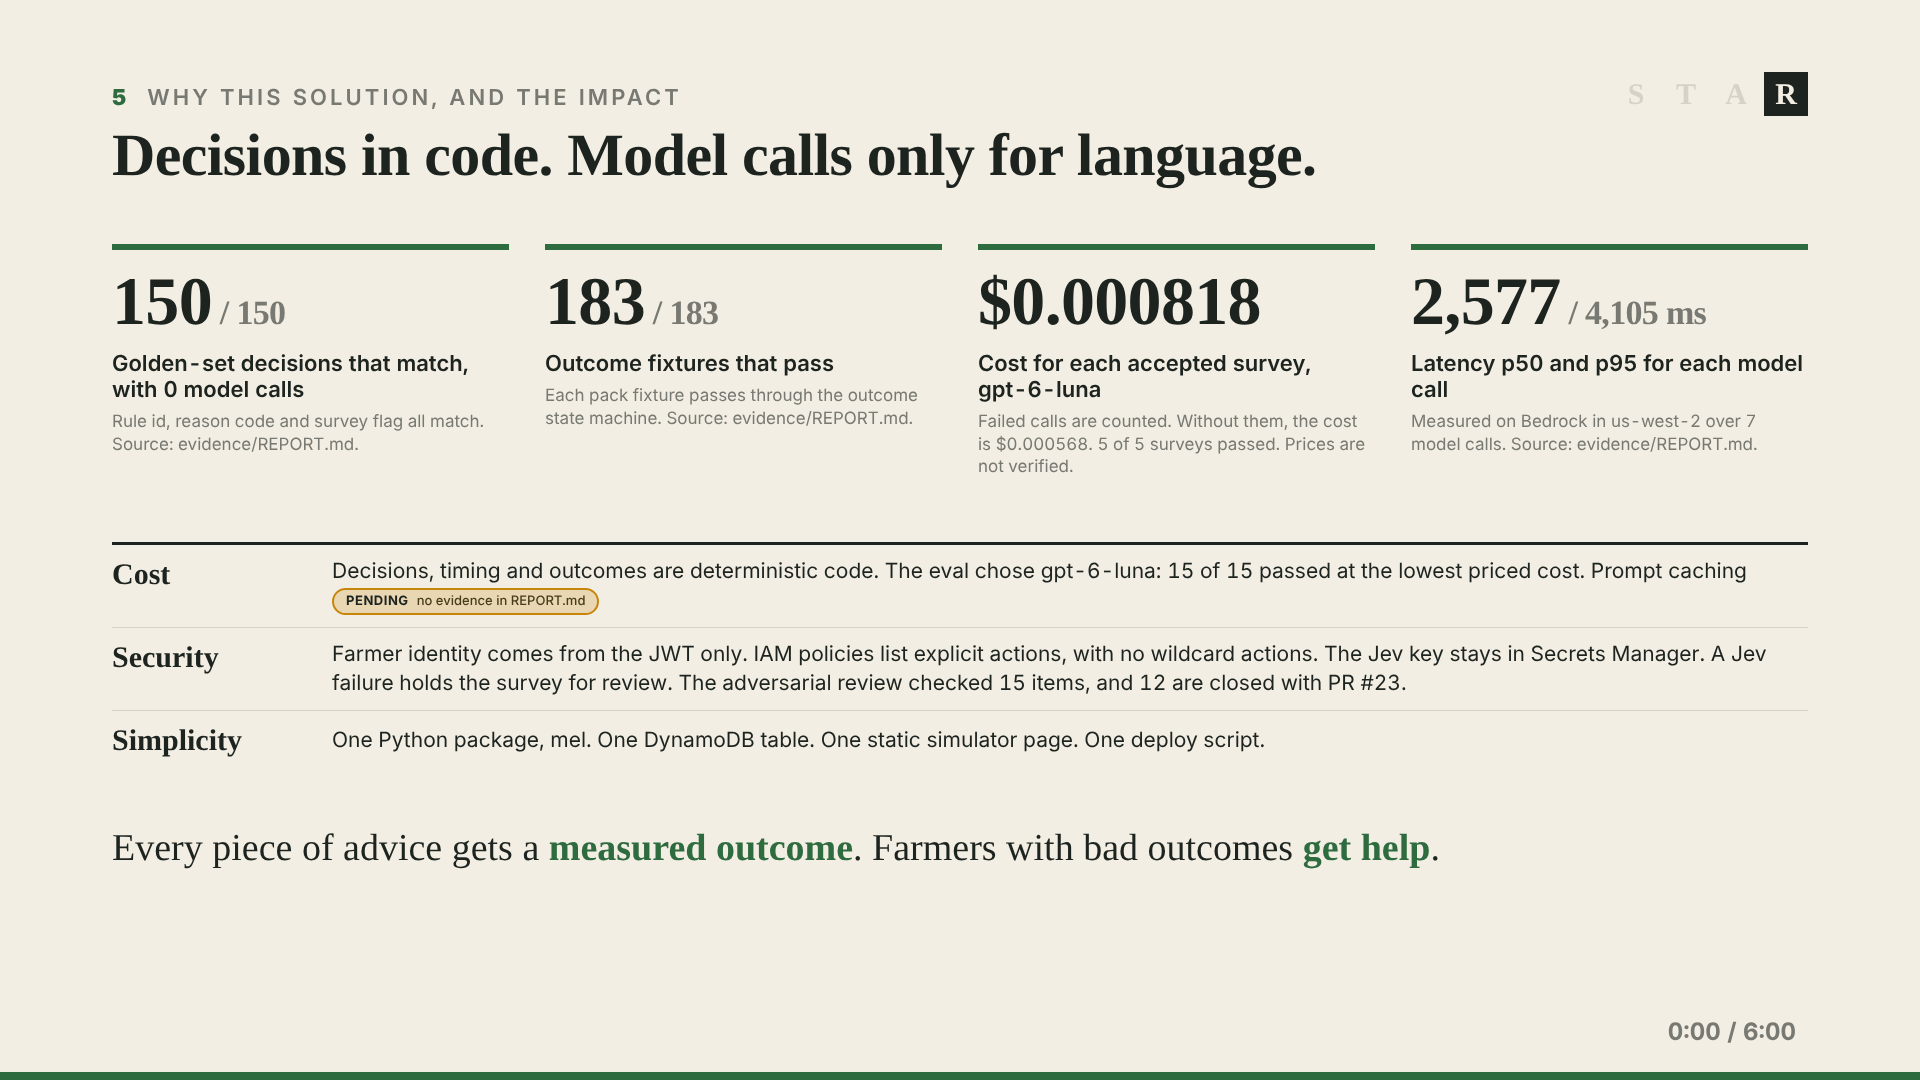
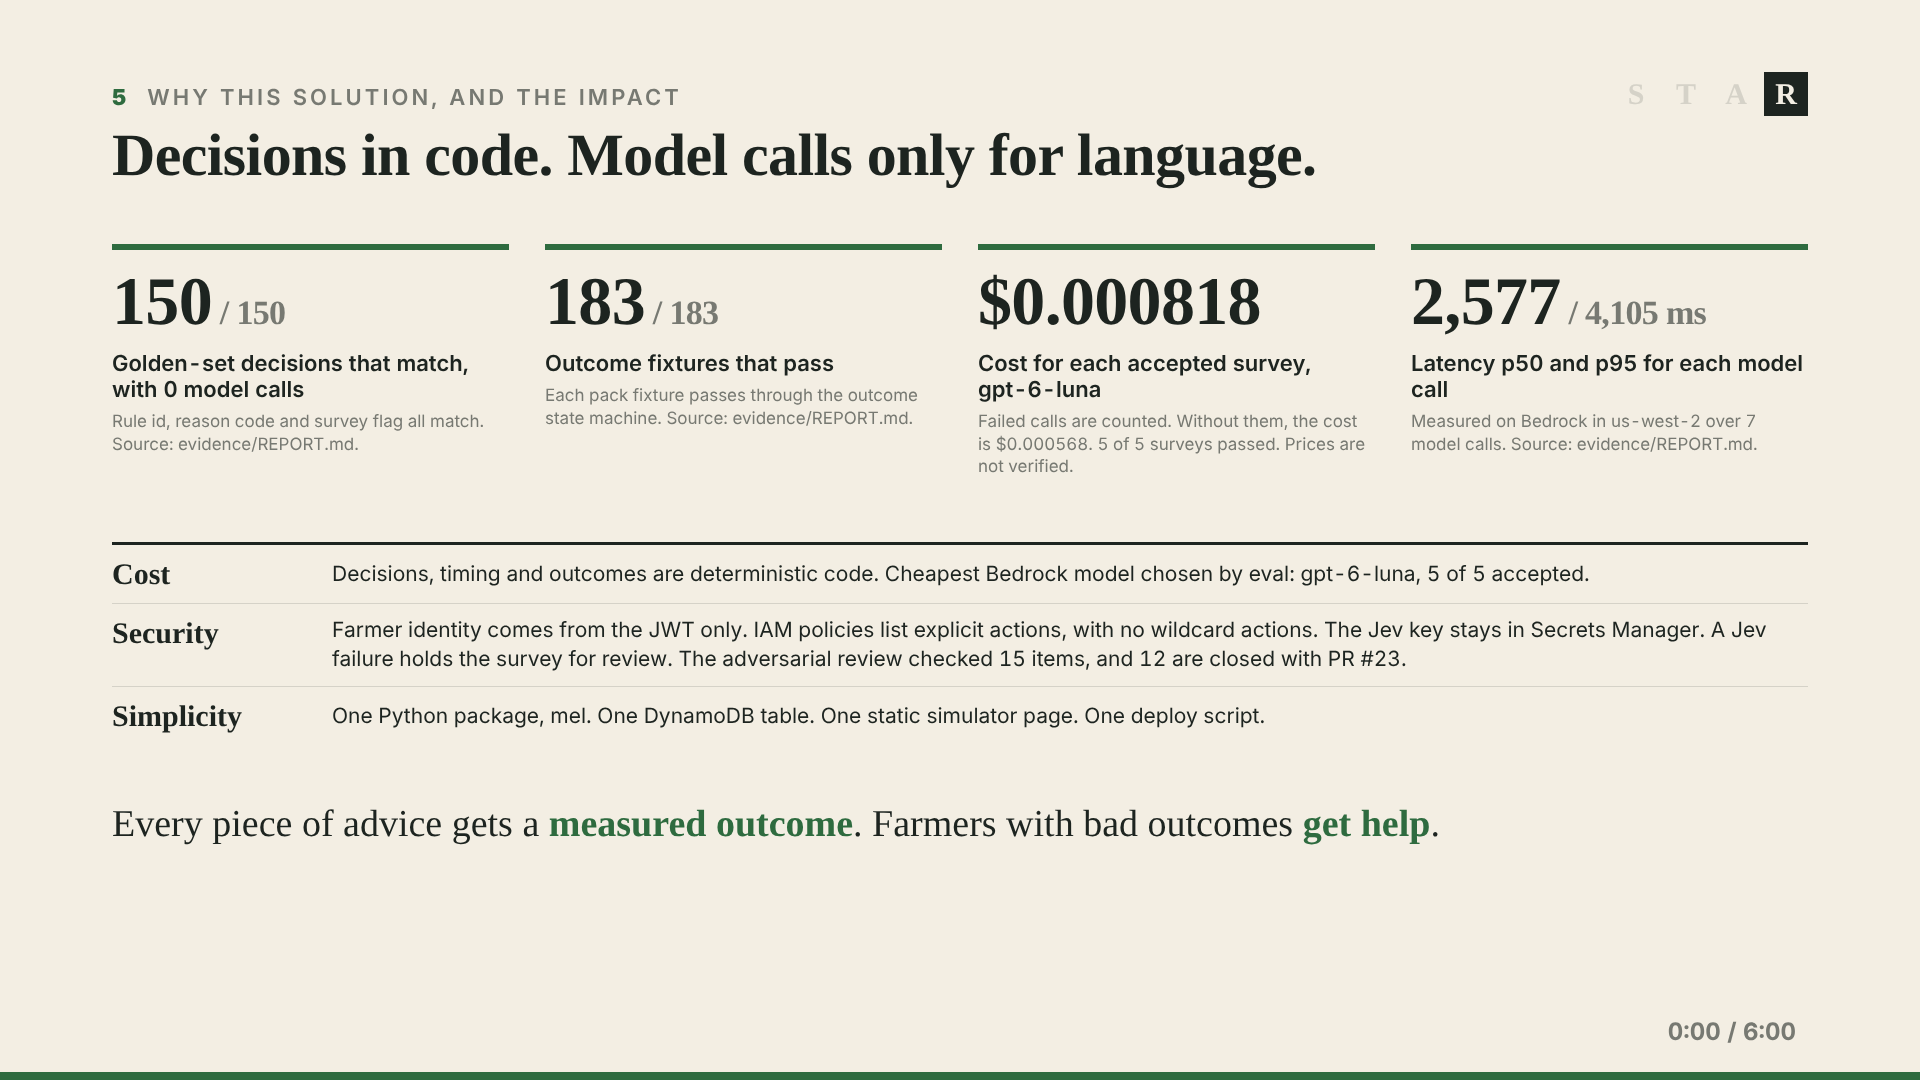
Deck: replace the prompt caching claim with the eval model line
Prompt caching was not measured, so slide 5 no longer claims it.

Claude-Session: https://claude.ai/code/session_01Cnzru5pCMBT4YPL5fzyRAG

Changed region(s): [[0.1562, 0.5194, 0.9375, 0.7028], [0.0625, 0.7333, 0.75, 0.7944], [0.0625, 0.5806, 0.125, 0.7028]]

diff --git a/deck/index.html b/deck/index.html
@@ -338,7 +338,7 @@ table.why th{border-top:1.5px solid var(--faint)}
     </div>
   </div>
   <table class="why">
-    <tr><th>Cost</th><td>Decisions, timing and outcomes are deterministic code. The eval chose <span style="white-space:nowrap">gpt-6-luna</span>: 15 of 15 passed at the lowest priced cost. Prompt caching <span class="chip">pending <i>no evidence in REPORT.md</i></span></td></tr>
+    <tr><th>Cost</th><td>Decisions, timing and outcomes are deterministic code. Cheapest Bedrock model chosen by eval: <span style="white-space:nowrap">gpt-6-luna</span>, 5 of 5 accepted.</td></tr>
     <tr><th>Security</th><td>Farmer identity comes from the JWT only. IAM policies list explicit actions, with no wildcard actions. The Jev key stays in Secrets Manager. A Jev failure holds the survey for review. The adversarial review checked 15 items, and 12 are closed with PR #23.</td></tr>
     <tr><th>Simplicity</th><td>One Python package, mel. One DynamoDB table. One static simulator page. One deploy script.</td></tr>
   </table>

diff --git a/deck/NOTES.md b/deck/NOTES.md
@@ -129,15 +129,12 @@ Sources read on 2026-11-05: main at 5e0b278, evidence/REPORT.md from PR #25, REV
 | 5 | 5 of 5 | surveys accepted (schema valid and Jev ok) | evidence/REPORT.md section 4 |
 | 5 | 2,577 ms, 4,105 ms | latency p50 and p95 per model call | evidence/REPORT.md section 4 |
 | 5 | 7 | model calls in the eval run | evidence/REPORT.md section 4 |
-| 5 | 15 of 15 | model-selection pass count for gpt-6-luna | models/results/model_select.md; evidence/REPORT.md section 5 |
 | 5 | 15, 12 | review items, and items closed with PR #23 | REVIEW.md (PR #21) |
 | footer | 6:00, 5:00 | talk length and amber point | the task brief |
 
 ## Pending chips
 
-Each chip is amber on the slide.
-
-1. Slide 5, cost row: prompt caching. evidence/REPORT.md, KNOWN-ISSUES.md and infra/INFRA.md do not say the build uses it.
+None. Dwayne removed the prompt caching claim on 2026-11-05, because it was not measured.
 
 ## Disagreements with the pack, the brief and the sources
 
@@ -145,7 +142,7 @@ Each chip is amber on the slide.
 - The brief asks for "least-privilege IAM, one role per component". KNOWN-ISSUES.md says Lambda and AgentCore share one role (review item 10). The slide says "IAM policies list explicit actions" instead.
 - The brief asks for end-to-end p50 and p95 latency. evidence/REPORT.md gives latency per model call only. The tile says "for each model call".
 - The brief asks for cost per accepted survey. evidence/REPORT.md gives 2 values. The tile shows $0.000818 (failed calls counted) and names $0.000568. Prices are unverified in both.
-- The brief asks for "the cheapest Bedrock model chosen by eval". models/results/model_select.md has no price for claude-haiku-5-5, so "cheapest" is not proven. The slide says "the lowest priced cost".
+- The cost row uses Dwayne's text: "cheapest Bedrock model chosen by eval: gpt-6-luna, 5 of 5 accepted". models/results/model_select.md has no price for claude-haiku-5-5, so "cheapest" is not proven against that model. Prices are unverified.
 - CLAUDE.md and models/models.yaml set max_tokens 600. The eval run used 900 (evidence/REPORT.md section 4). Slide 3 shows both.
 - The adversarial review count is from REVIEW.md: 12 of 15 items are closed with PR #23. PR #23 is not merged at the time of writing. Update the slide when the integration PR for items 4, 5 and 10 merges.
 - DEMO.md times its 6 steps as a full 6:00 talk. This deck gives the demo 2:00 (3:10 to 5:10). The presenter must choose which steps to run live.
